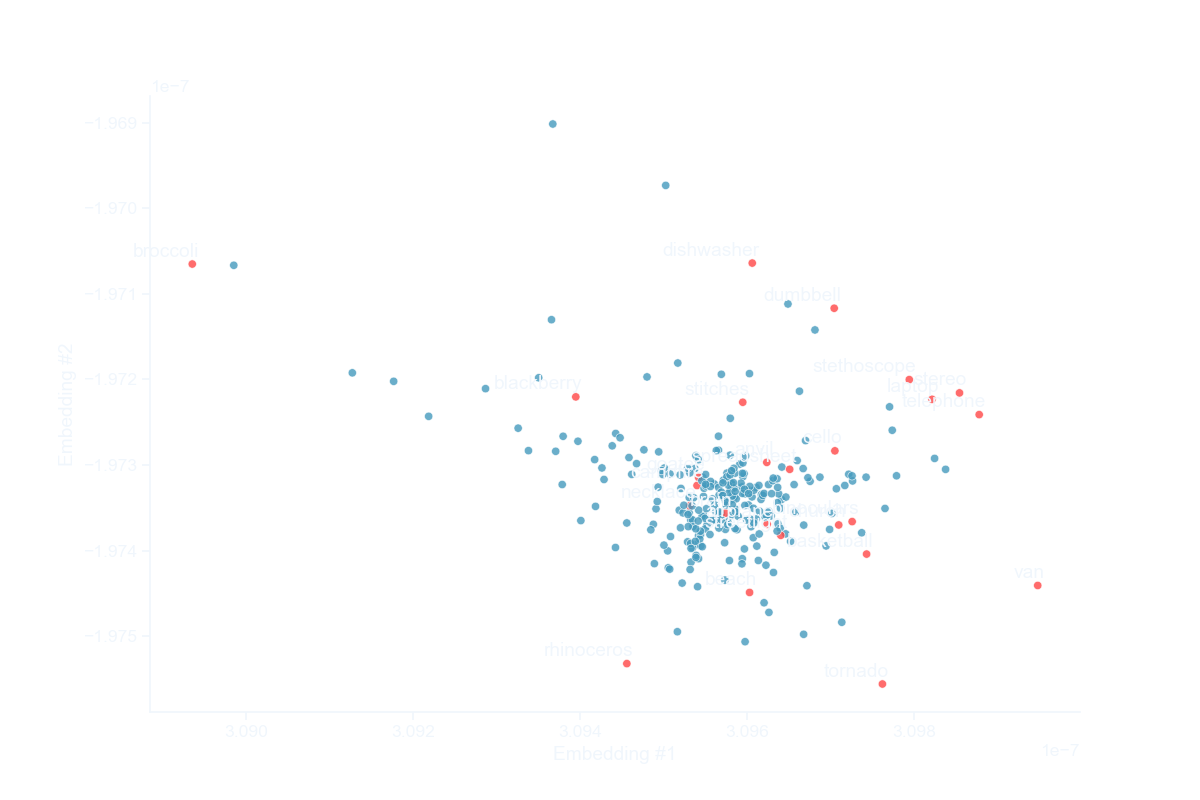
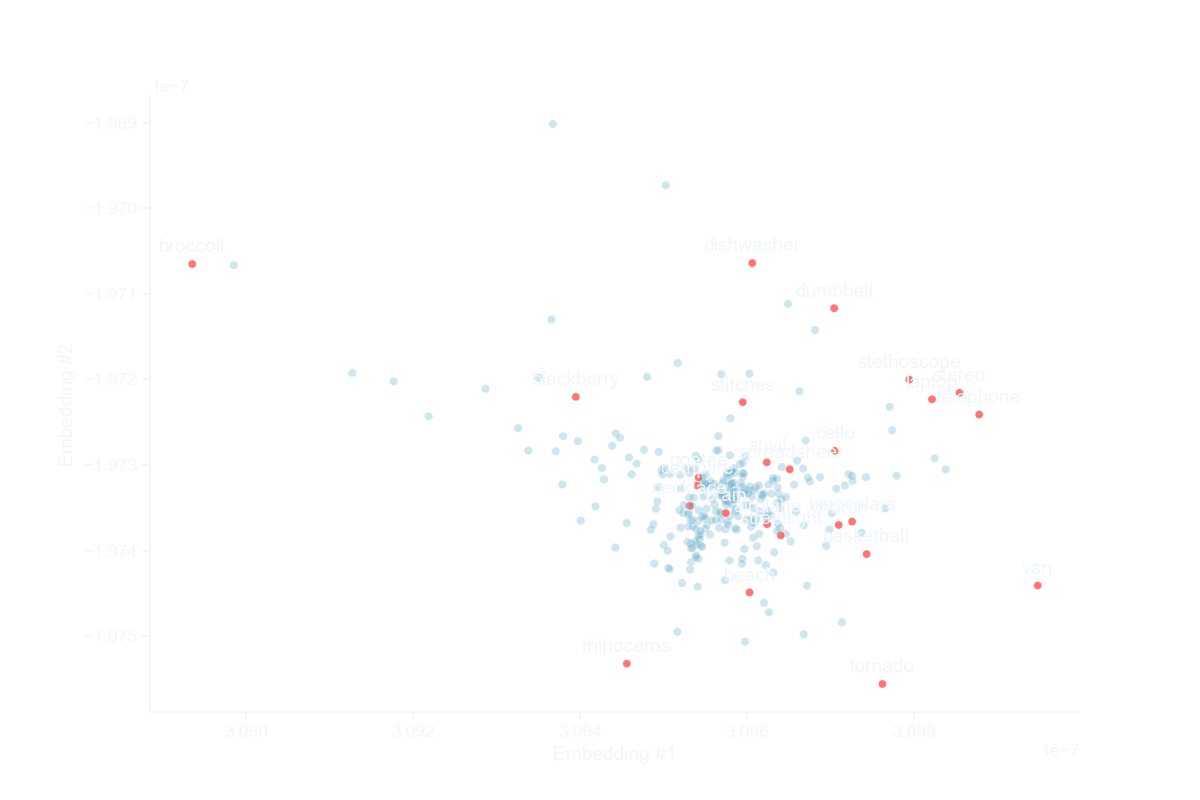
Improved visibility of word selection plot

Changed region(s): [[0.4625, 0.5312, 0.7092, 0.75], [0.7708, 0.5625, 0.8017, 0.5938], [0.6167, 0.75, 0.6475, 0.7812]]

diff --git a/data/GloVeEmbedding.py b/data/GloVeEmbedding.py
@@ -64,10 +64,11 @@ class GloVeEmbedding:
         embedding_vectors_2d = tsne.fit_transform(embedding_vectors)
 
         plot_data = pd.DataFrame({
-            'x': embedding_vectors_2d[:, 0],
-            'y': embedding_vectors_2d[:, 1],
-            'word': words,
-            'color': ['#ff4747' if special_words is not None and word in special_words else '#459abd' for word in words]
+            "x": embedding_vectors_2d[:, 0],
+            "y": embedding_vectors_2d[:, 1],
+            "word": words,
+            'color': ['#ff4747' if special_words is not None and word in special_words else '#459abd' for word in words],
+            "alpha": [0.75 if special_words is not None and word in special_words else 0.25 for word in words]
         })
 
         fig = plt.figure(figsize=(12, 8))
@@ -79,15 +80,15 @@ class GloVeEmbedding:
             hue='color',
             palette={c: c for c in plot_data['color'].unique()},
             legend=False,
-            alpha=0.8
+            alpha=plot_data["alpha"]
         )
 
         color = "#0d1117" if not dark_mode else "#F0F6FC"
         if special_words is not None:
             for _, row in plot_data.iterrows():
                 if row['word'] in special_words:
-                    plt.annotate(row['word'], (row['x'], row['y']), xytext=(5, 2.5),
-                                 textcoords="offset points", ha="right", va="bottom", color=color)
+                    plt.annotate(row['word'], (row['x'], row['y']), xytext=(0, 12),
+                                 textcoords="offset points", ha="center", va="center", color=color)
 
         ax.spines["bottom"].set_color(color)
         ax.spines["left"].set_color(color)
